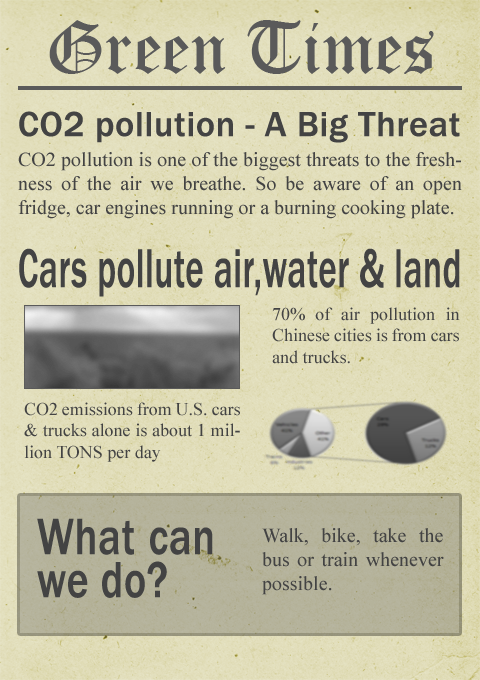
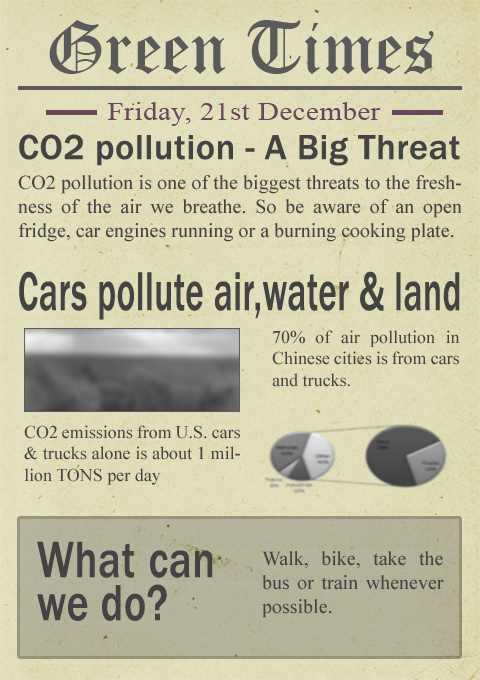
Added scale to xml Added ending conditions Added progress monitoring Updated news images

diff --git a/GreenTime/GreenTime/Screens/PlayScreen.cs b/GreenTime/GreenTime/Screens/PlayScreen.cs
@@ -64,7 +64,7 @@ namespace GreenTime.Screens
         // When it's used, it is cast into a byte
         // 0 = fully desaturated
         // 64 = original colors
-        float desaturationAmount = 0;
+        float desaturationAmount = StateManager.Current.GetState("progress") * 0.64f;
 
         float pauseAlpha;
         #endregion
@@ -96,8 +96,8 @@ namespace GreenTime.Screens
             TransitionOffTime = TimeSpan.FromSeconds(0.5);
             
             // create player
-            player = new AnimatedObject(LevelManager.State.PlayerPosition, 110, 326, 15, false, PLAYER_LAYER);
-            player_other = new AnimatedObject(LevelManager.State.PlayerPosition, 110, 326, 15, false, PLAYER_LAYER - 0.1f);
+            player = new AnimatedObject(LevelManager.State.PlayerPosition, 110, 326, 15, false, PLAYER_LAYER, 1.2f);
+            player_other = new AnimatedObject(LevelManager.State.PlayerPosition, 110, 326, 15, false, PLAYER_LAYER - 0.1f, 1.2f);
             //player = new AnimatedObject(LevelManager.State.PlayerPosition, 110, 326, 15, false, PLAYER_LAYER);
 
             // play game music
@@ -135,7 +135,7 @@ namespace GreenTime.Screens
             // load picked up object
             if (LevelManager.State.PickedObject != null)
             {
-                pickedObject = new BaseObject( player.Position, LevelManager.State.PickedObject.Shaded, LevelManager.State.PickedObject.Layer );
+                pickedObject = new BaseObject( player.Position, LevelManager.State.PickedObject.Shaded, LevelManager.State.PickedObject.Layer, LevelManager.State.PickedObject.Scale );
                 pickedObject.Load(content, LevelManager.State.PickedObject.TextureName);
                 pickedObject.Layer = 0.4f;
             }
@@ -161,7 +161,7 @@ namespace GreenTime.Screens
             gameObjects.Clear();
 
             // Load the background
-            newGameObject = new BaseObject(Vector2.Zero, LevelManager.State.CurrentLevel.BackgroundTexture.Shaded, BACKGROUND_LAYER);
+            newGameObject = new BaseObject(Vector2.Zero, LevelManager.State.CurrentLevel.BackgroundTexture.Shaded, BACKGROUND_LAYER, 1.0f);
             newGameObject.Load(content, LevelManager.State.CurrentLevel.BackgroundTexture.TextureName);
             gameObjects.Add(newGameObject);
 
@@ -175,13 +175,13 @@ namespace GreenTime.Screens
                     // static object
                     if (sprite.Animation.Count == 0)
                     {
-                        newGameObject = new BaseObject( sprite.Position, sprite.Shaded, sprite.Layer);
+                        newGameObject = new BaseObject( sprite.Position, sprite.Shaded, sprite.Layer, sprite.Scale);
                     }
                     // animated object
                     else
                     {
                         animation = sprite.Animation[0];
-                        newGameObject = new AnimatedObject( sprite.Position, animation.FrameWidth, animation.FrameHeight, animation.FramesPerSecond, sprite.Shaded, sprite.Layer);
+                        newGameObject = new AnimatedObject( sprite.Position, animation.FrameWidth, animation.FrameHeight, animation.FramesPerSecond, sprite.Shaded, sprite.Layer, sprite.Scale);
                         // add animations
                         ((AnimatedObject)newGameObject).AddAnimations(animation.Playbacks);
                     }
@@ -309,7 +309,7 @@ namespace GreenTime.Screens
             // game objects
             for (int i = 0; i < gameObjects.Count; i++)
             {
-                gameObjects[i].Draw( spriteBatch, new Color(( gameObjects[i].Shaded ? (byte)desaturationAmount : 64 ), 255, 255, 255) );
+                gameObjects[i].Draw( spriteBatch, new Color(( gameObjects[i].Shaded ? (byte)desaturationAmount : 64 ), 255, 255, 255), gameObjects[i].Scale );
             }
 
             // player
@@ -381,7 +381,7 @@ namespace GreenTime.Screens
                 LevelManager.State.PlayerPosition = player.Position;    // update position at this point in case of saving
                 ScreenManager.AddScreen(new PauseScreen());
             }
-            else if ( this.IsActive && this.TransitionPosition == 0 && playerFading == 0 )
+            else if ( this.IsActive && this.TransitionPosition == 0 && playerFading == 0 && StateManager.Current.GetState("progress") != 100 )
             {
                 // check for action button, only if player is over interactive object, and if player is either dropping an object or has no object in hand
                 if (input.IsMenuSelect() && interactingObject != null && (pickedObject == null || (pickedObject != null && interactingObject.Special == "drop")))
@@ -415,7 +415,7 @@ namespace GreenTime.Screens
 
                 }
                 // check for time warp button
-                else if (input.IsReverseTime() && interactingObject != null)
+                else if (input.IsReverseTime() && interactingObject != null && StateManager.Current.GetState("progress") != 100)
                 {
                     // transition into past
                     if (!String.IsNullOrEmpty(interactingObject.Transition))

diff --git a/GreenTime/GreenTime/GameObjects/BaseObject.cs b/GreenTime/GreenTime/GameObjects/BaseObject.cs
@@ -15,6 +15,7 @@ namespace GreenTime.GameObjects
         protected Vector2 position;
         protected bool shaded;
         protected float layer;
+        protected float scale;
         #endregion
 
         #region Properties
@@ -52,14 +53,16 @@ namespace GreenTime.GameObjects
 
         public bool Shaded { get { return shaded; } set { shaded = value; } }
         public float Layer { get { return layer; } set { layer = value; } }
+        public float Scale { get { return scale; } set { scale = value; } }
         #endregion
 
         #region Constructor
-        public BaseObject( Vector2 position, bool shaded, float layer )
+        public BaseObject( Vector2 position, bool shaded, float layer, float scale )
         {
             this.position = position;
             this.shaded = shaded;
             this.layer = layer;
+            this.scale = scale;
         }
         #endregion
 
@@ -72,8 +75,13 @@ namespace GreenTime.GameObjects
 
         #region Draw
         public virtual void Draw(SpriteBatch spriteBatch, Color tint)
+        {         
+            Draw(spriteBatch, tint, 1.0f);
+        }
+
+        public virtual void Draw(SpriteBatch spriteBatch, Color tint, float scale)
         {
-            spriteBatch.Draw(texture, position, texture.Bounds, tint, 0.0f, Vector2.Zero, 1.0f, SpriteEffects.None, layer);            
+            spriteBatch.Draw(texture, position, texture.Bounds, tint, 0.0f, Vector2.Zero, scale, SpriteEffects.None, layer); 
         }
         #endregion
     }

diff --git a/GreenTime/GreenTime/GameObjects/AnimatedObject.cs b/GreenTime/GreenTime/GameObjects/AnimatedObject.cs
@@ -54,8 +54,8 @@ namespace GreenTime.GameObjects
         #endregion
 
         #region Constructor
-        public AnimatedObject(Vector2 position, int frameWidth, int frameHeight, int framesPerSecond, bool shaded, float layer)
-            : base(position, shaded, layer)
+        public AnimatedObject(Vector2 position, int frameWidth, int frameHeight, int framesPerSecond, bool shaded, float layer, float scale )
+            : base(position, shaded, layer, scale)
         {
             this.animations = new Dictionary<string, int[]>();
             this.frameWidth = frameWidth;
@@ -176,10 +176,11 @@ namespace GreenTime.GameObjects
 
         public override void Draw(SpriteBatch spriteBatch, Color tint)
         {
-            spriteBatch.Draw(texture, position, currentFrameRectangle, tint, 0.0f, Vector2.Zero, 1.0f, flipped ? SpriteEffects.FlipHorizontally : SpriteEffects.None, layer );
+            //spriteBatch.Draw(texture, position, currentFrameRectangle, tint, 0.0f, Vector2.Zero, 1.0f, flipped ? SpriteEffects.FlipHorizontally : SpriteEffects.None, layer );
+            Draw(spriteBatch, tint, 1.0f);
         }
 
-        public void Draw(SpriteBatch spriteBatch, Color tint, float scale )
+        public override void Draw(SpriteBatch spriteBatch, Color tint, float scale )
         {
             spriteBatch.Draw(texture, position, currentFrameRectangle, tint, 0.0f, Vector2.Zero, scale, flipped ? SpriteEffects.FlipHorizontally : SpriteEffects.None, layer );
         }

diff --git a/GreenTime/GreenTime/Managers/StateManager.cs b/GreenTime/GreenTime/Managers/StateManager.cs
@@ -9,6 +9,8 @@ namespace GreenTime.Managers
     public class StateManager
     {
         #region State Constants
+        public static readonly int TOTAL_PUZZLES = 4;
+
         // state to mark game should transition back to present
         public static readonly string STATE_BACKTOPRESENT = "back_to_present";
         // state to keep track of the indoor puzzles and whether or not they're solved
@@ -59,6 +61,10 @@ namespace GreenTime.Managers
         /// <returns></returns>
         public int GetState(string stateName)
         {
+            // check if game is completed
+            if (stateName.StartsWith("puzzle") && GetState("progress") == 100)
+                return 0;
+
             // if key is present, return key value
             if (states.ContainsKey(stateName))
                 return states[stateName];
@@ -76,6 +82,12 @@ namespace GreenTime.Managers
         /// <returns></returns>
         public void SetState(string stateName, int value)
         {
+            // if puzzle solved
+            if (stateName.StartsWith("puzzle") && value == 100)
+            {
+                SetState("progress", GetState("progress") + 100 / TOTAL_PUZZLES);
+            }
+
             if (states.ContainsKey(stateName))
                 states[stateName] = value;
             else

diff --git a/GreenTime/GreenTime/Managers/LevelManager.cs b/GreenTime/GreenTime/Managers/LevelManager.cs
@@ -194,8 +194,12 @@ namespace GreenTime.Managers
         /// <returns>The name of the news texture file</returns>
         public string GetNewsTexture()
         {
-            // TODO: change this to match with game state
-            return "news\\news1";
+            // return final newspaper when game completed
+            if (StateManager.Current.GetState("progress") == 100)
+                return "news\\news_final";
+
+            int newsIndex = new Random().Next(1, 5);
+            return "news\\news" + newsIndex.ToString();
         }
         #endregion
 

diff --git a/GreenTimeGameData/Components/Sprite.cs b/GreenTimeGameData/Components/Sprite.cs
@@ -34,6 +34,11 @@ namespace GreenTimeGameData.Components
         /// the sprite's layer depth
         /// </summary>        
         public float Layer { get; set; }
+
+        /// <summary>
+        /// the sprite's scale factor
+        /// </summary>
+        public float Scale { get; set; }
         #endregion
     }
 }
